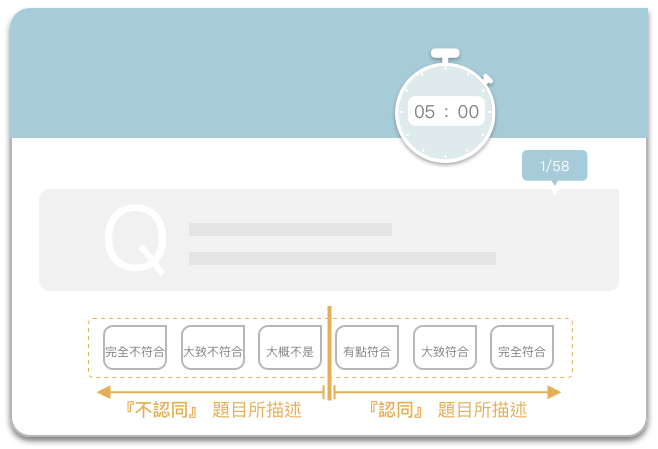
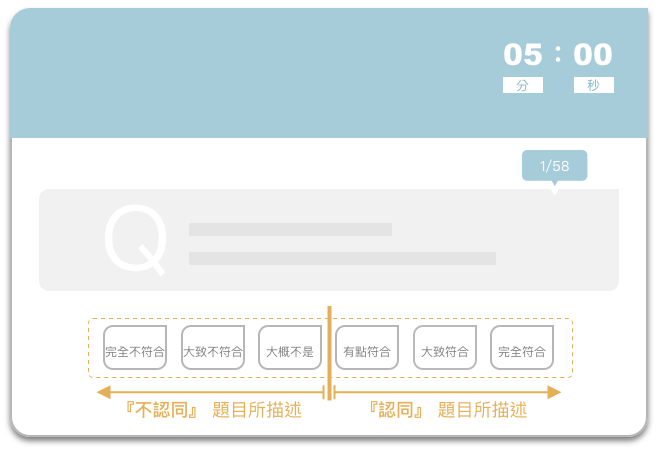
trait style & hr dispermission style

Changed region(s): [[0.5775, 0.0935, 0.8207, 0.3742], [0.8511, 0.0935, 0.9422, 0.2183]]

diff --git a/css/style.css b/css/style.css
@@ -254,6 +254,7 @@ p.add_nterviewee a:hover{ box-shadow: 0px 2px 4px rgba(0,0,0,.5);}
 .popup-L {max-width: 958px; min-width: 958px;}
 .setBox .top_title {width: 100%; position: relative; max-width: 390px;}
 .setBox .top_title h3 { text-align: center; font-size: 18px; letter-spacing: 7px; line-height: 36px; background-color: #D1E0E5; padding: 5px 0; border-radius: 10px 0 10px 10px; }
+.setBox .top_title h3.bg_red { text-align: center; font-size: 18px; letter-spacing: 7px; line-height: 36px; background-color: #C87D86; color: #fff; padding: 5px 0; border-radius: 10px 0 10px 10px; }
 .setBox .top_title h3.dark{ background-color: #558C9E; color: #fff;}
 .popup-L .setBox .top_title{ max-width: 100%; }
 
@@ -1307,9 +1308,9 @@ input.input_yesNo_no[type=radio]:not(old):checked + label{ background : url('../
 .traitTestBox .ex-img p span{ background-color: #E5AF57; position: relative;  color: #fff; border-radius: 5px; padding: 6px 15px; text-align: center; min-width: 84px; display: inline-block; }
 .traitTestBox .ex-img p span::after{ z-index: 10; bottom: -14px; left: calc(50% - 12px); position: absolute; content: ""; width: 0; height: 0; border-style: solid; border-width: 14px 12px 0 12px; border-color: #e5af57 transparent transparent transparent; line-height: 0px; _border-color: #e5af57 #000000 #000000 #000000; _filter: progid:DXImageTransform.Microsoft.Chroma(color='#000000');}
 
-.traitTestBox .ex-img p.ex_p_01{ top: 12px; right: 226px; }
+.traitTestBox .ex-img p.ex_p_01{ top: -3px; right: 153px; }
 .traitTestBox .ex-img p.ex_p_02{ top: 140px; left: 160px; }
-.traitTestBox .ex-img p.ex_p_03{ top: 90px; right: 88px; }
+.traitTestBox .ex-img p.ex_p_03{ top: 95px; right: 92px; }
 .traitTestBox .ex-img p.ex_p_04{ bottom: 54px; right: 0px; }
 .traitTestBox .ex-img p.ex_p_04 span{padding: 15px 15px 10px 15px;}
 .traitTestBox .ex-img p.ex_p_03 span::after{ left: 28px; }
